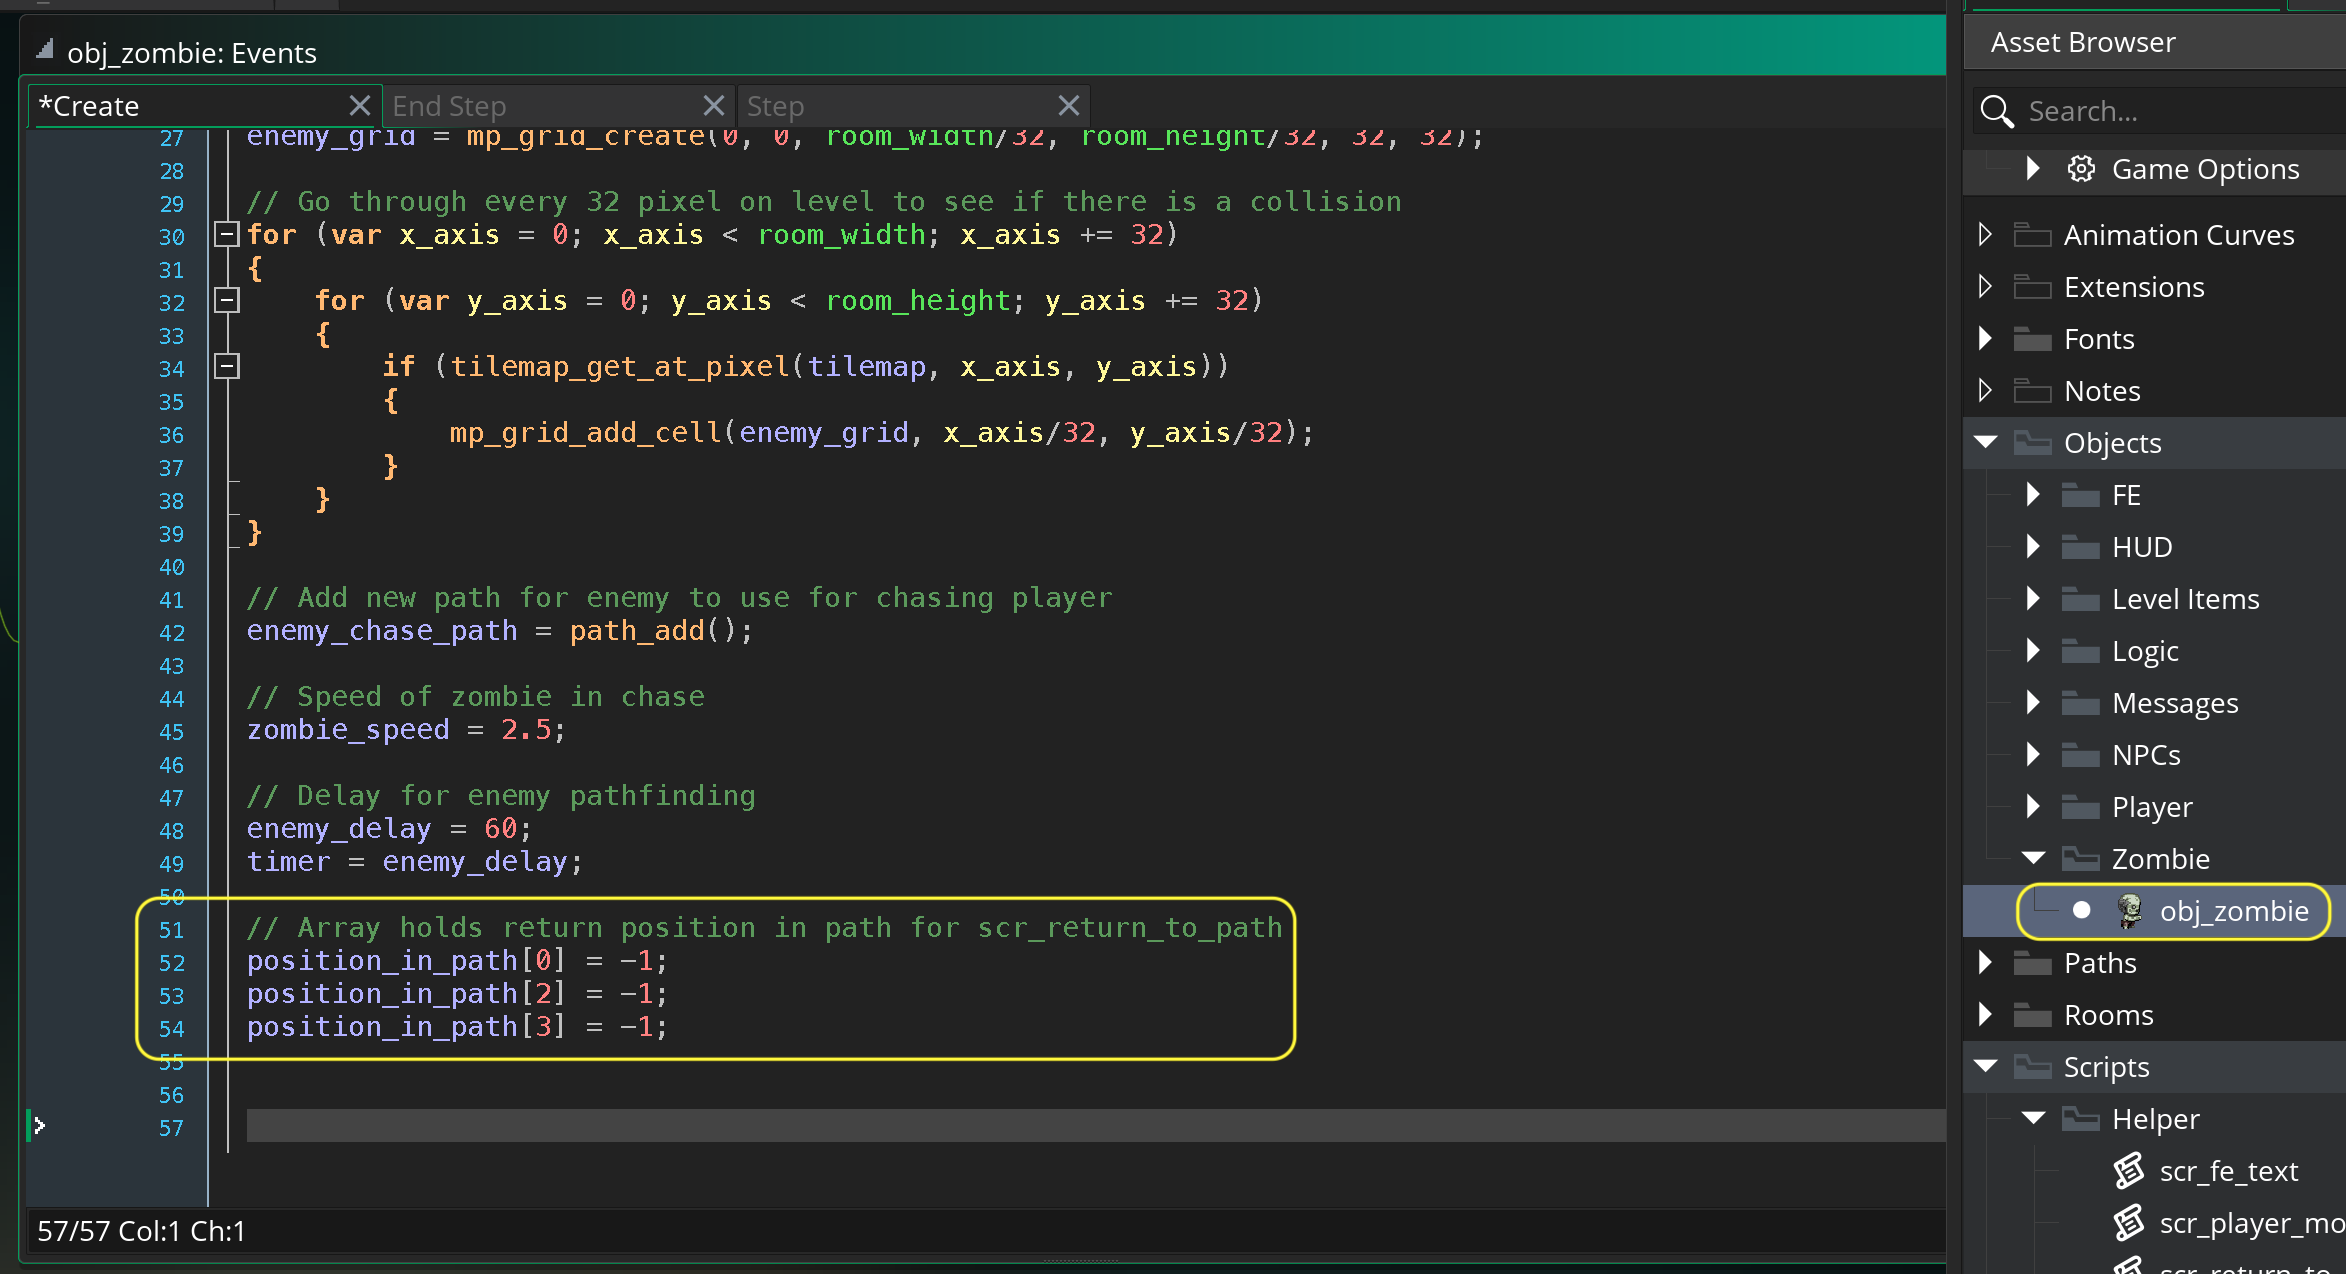
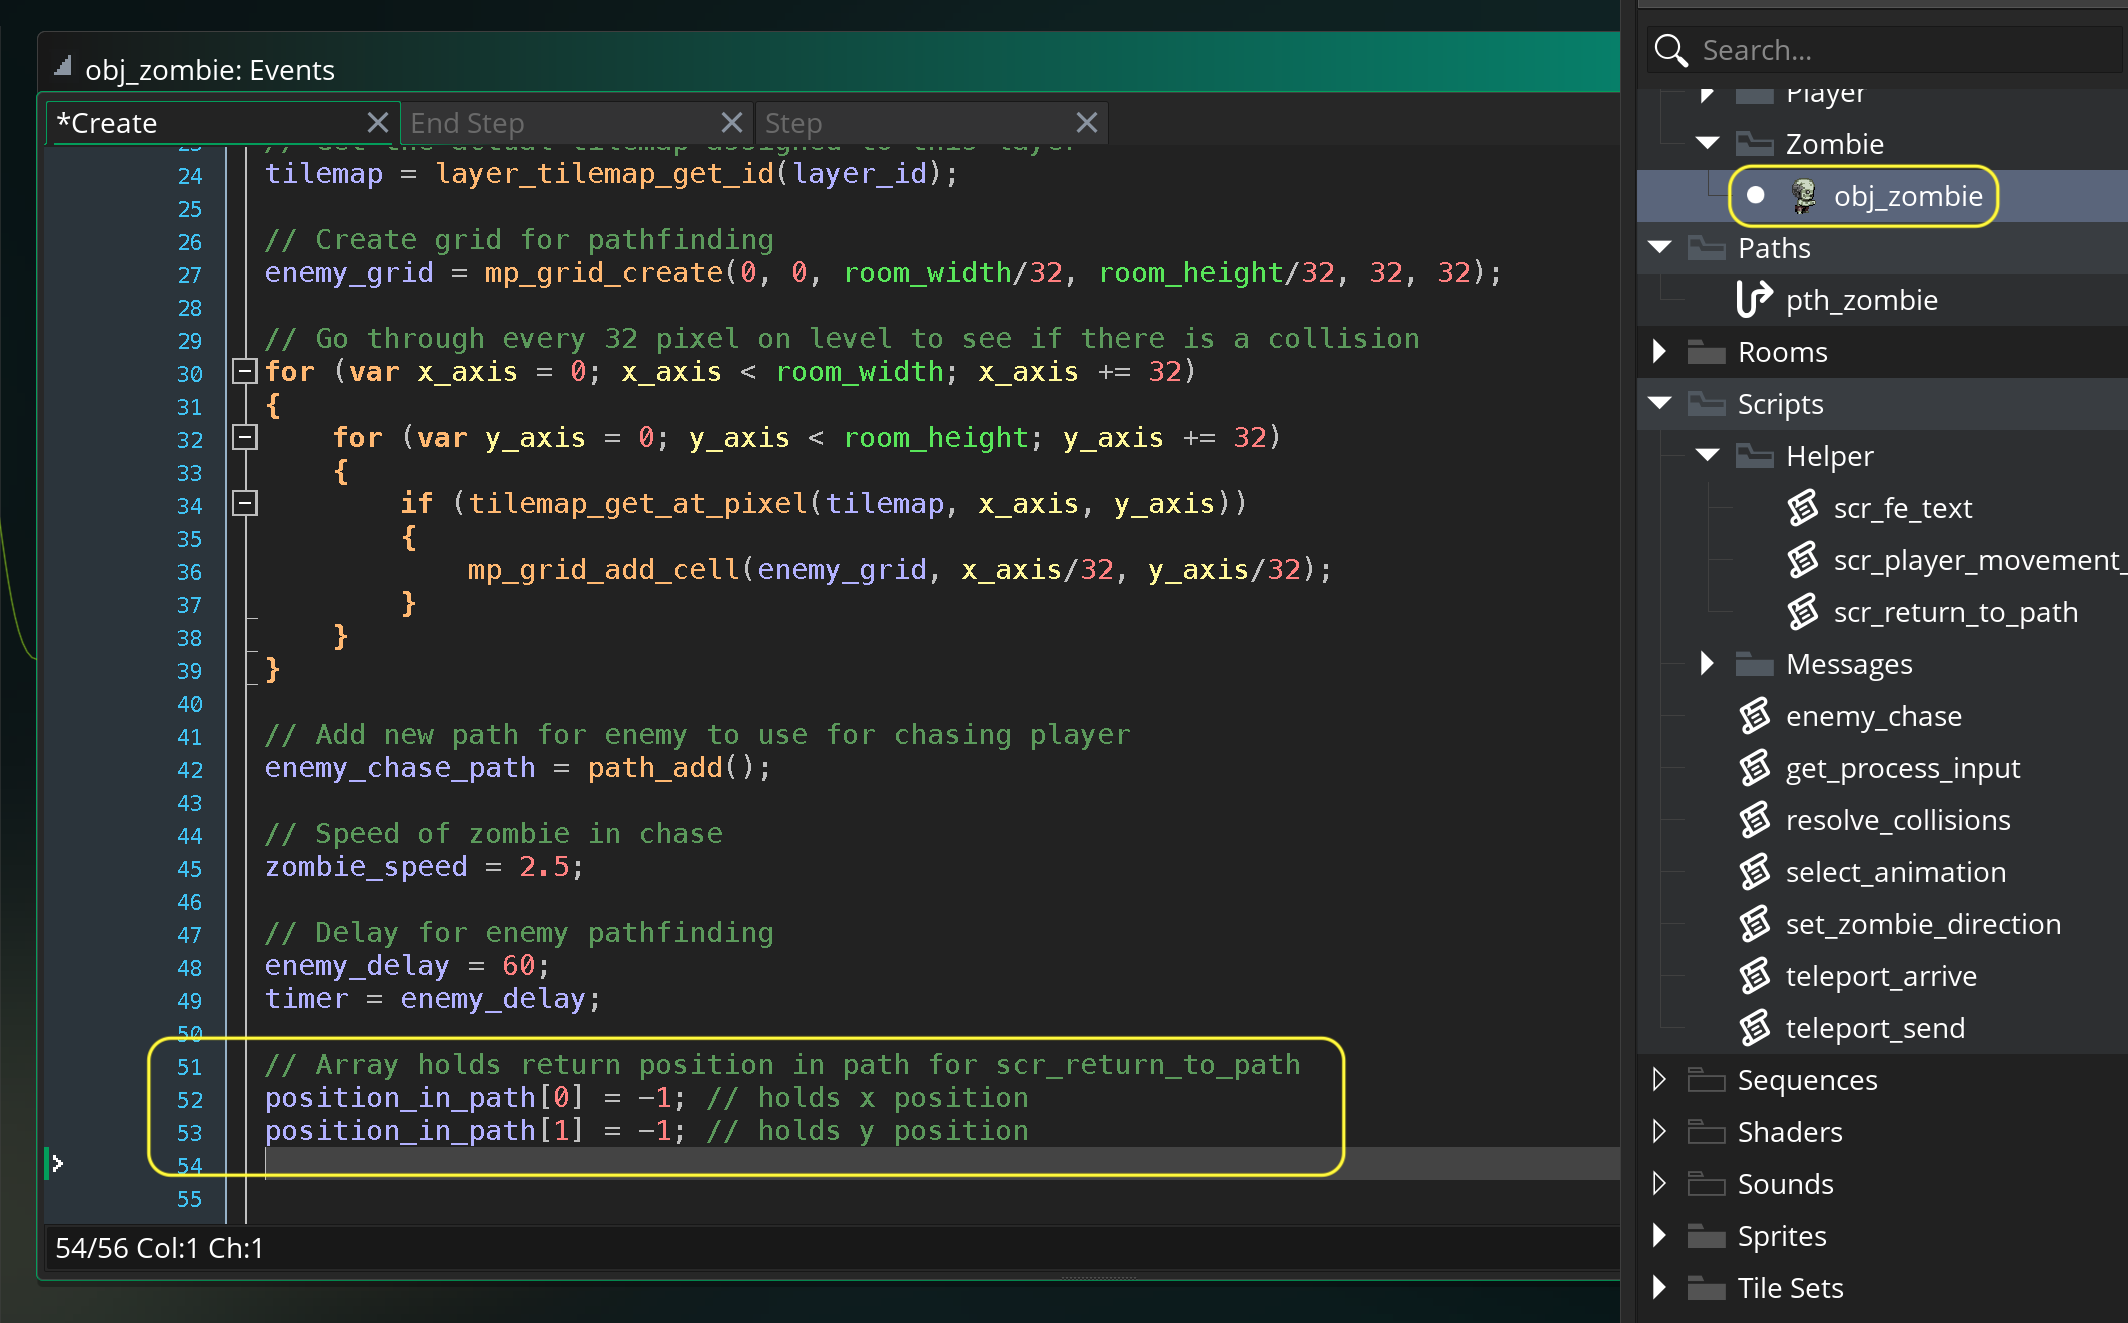
porting walk through

diff --git a/pathfinding-iii/README.md b/pathfinding-iii/README.md
@@ -23,22 +23,26 @@ We want to find the nearest point on the path to return to.  We have provided a 
 
 ##### `Step 2.`\|`FHIU`|:small_blue_diamond: :small_blue_diamond: 
 
-We need to end the path of the zombie chasing.  We change the state to RETURN. We call the function scr_return_to_path(path, interval) and pass it our initial patrolling enemy path path_enemy and check it 20 times along this long path (interval set to .05).  We get the return position for both x and y then set a new path and start it.  Open scr_enemy_chanse and add at the bottom:
+We need to end the path of the zombie chasing.  We change the state to `return_to_path`. We call the function `scr_return_to_path(path, interval)` and pass it our initial patrolling enemy path `path_enemy` and check it `20` times along this long path (interval set to `.05`).  We get the return position for both x and y then set a new path and start it.  Open `enemy_chase` and add at the bottom:
 
-![alt_text](images/.png)
+![add scr_return_to_path](images/returnToPath.png)
 
 <img src="https://via.placeholder.com/500x2/45D7CA/45D7CA" alt="drawing" height="2px" alt = ""/>
 
 ##### `Step 3.`\|`SPCRK`|:small_blue_diamond: :small_blue_diamond: :small_blue_diamond:
 
-Then we need to open up the zombie step event and add at the bottom a check to see if we are close enough to the path to return to PATROL state.  If we are we end the previous path, start the original patrol path, update the position to the closest point that the player is at then change the state back to CONTROL.
-			<h3>obj_zombie: Step Event</h3>
+Now *press* the <kbd>Play</kbd> button in the top menu bar to launch the game. Now you can escape from the chasing player and they will return to the nearest point on their path.  They will get stuck there as we need to switch back to patrol.
 
-![alt_text](images/.png)
+
 
 <img src="https://via.placeholder.com/500x2/45D7CA/45D7CA" alt="drawing" height="2px" alt = ""/>
 
 ##### `Step 4.`\|`SPCRK`|:small_blue_diamond: :small_blue_diamond: :small_blue_diamond: :small_blue_diamond:
+
+Then we need to open up the zombie step event and add at the bottom a check to see if we are close enough to the path to return to PATROL state.  If we are we end the previous path, start the original patrol path, update the position to the closest point that the player is at then change the state back to CONTROL.
+			<h3>obj_zombie: Step Event</h3>
+
+![alt_text](images/.png)
 
 Run the game by pressing the <img style="vertical-align:middle" src="http://marcaubanel.com/gamemaker/GMS2-Images/Shared/Icon_RunProject.png" alt="play button icon"> Play Button. Run up to the zombie then run away from it. The zombie will give up and return to the closest patrol spot then go back to patrolling.
 
